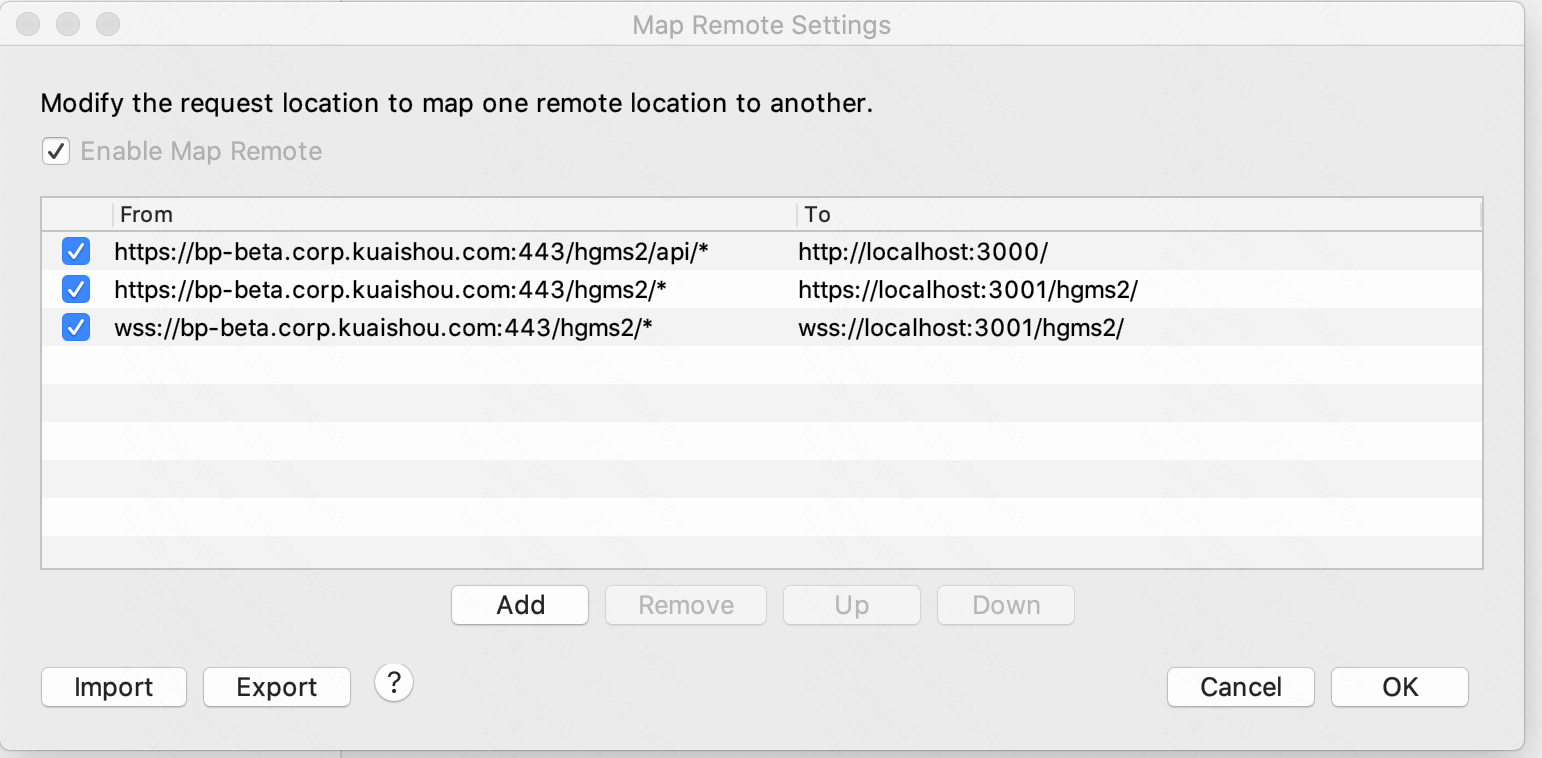
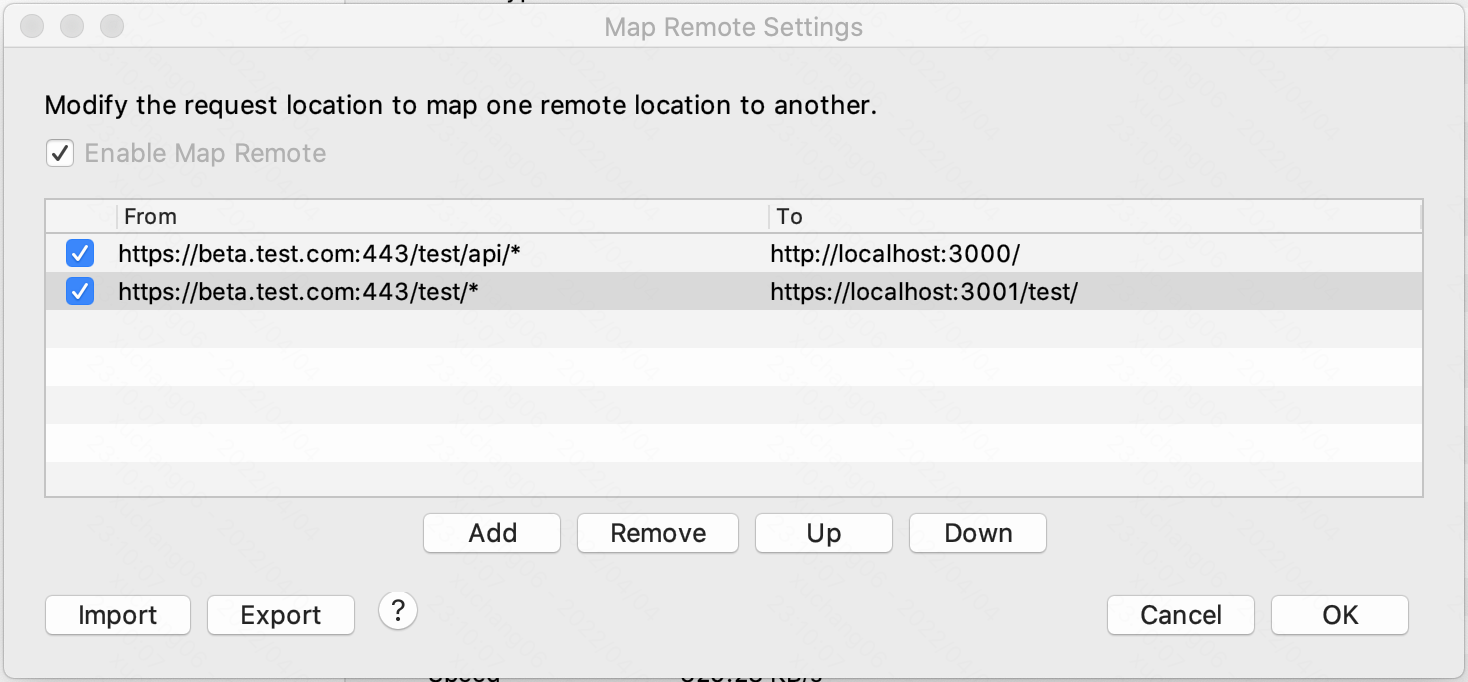
charles文章修正

diff --git a/content/posts/2022-3-31---使用charles代理线上到本地教程.md b/content/posts/2022-3-31---使用charles代理线上到本地教程.md
@@ -22,7 +22,7 @@ socialImage: "/media/42-line-bible.jpg"
 ![charles-record-setting.png](/media/charles-record-setting.png)
 
 ### 设置需要代理的源与目标源
-设置map remote settings，下面的xml代码：把beta.test.com/hgms2/api/dsm 请求发出的接口转发到本地后端服务localhost:3000/dsm；从beta.test.com/hgms2/list 页面转发到本地前端服务localhost:3001。这里需要注意顺序问题，接口转发的优先级高于页面转发的优先级，否则接口请求代理走页面代理。
+设置map remote settings，下面的xml代码：把beta.test.com/test/api/dsm 请求发出的接口转发到本地后端服务localhost:3000/dsm；从beta.test.com/test/list 页面转发到本地前端服务localhost:3001。这里需要注意顺序问题，接口转发的优先级高于页面转发的优先级，否则接口请求代理走页面代理。
 ```
 <?xml version='1.0' encoding='UTF-8' ?>
 <?charles serialisation-version='2.0' ?>
@@ -34,7 +34,7 @@ socialImage: "/media/42-line-bible.jpg"
             <protocol>https</protocol>
             <host>beta.test.com</host>
             <port>443</port>
-            <path>/hgms2/api/*</path>
+            <path>/test/api/*</path>
         </sourceLocation>
         <destLocation>
             <protocol>https</protocol>
@@ -51,7 +51,7 @@ socialImage: "/media/42-line-bible.jpg"
             <protocol>https</protocol>
             <host>beta.test.com</host>
             <port>443</port>
-            <path>/hgms2/*</path>
+            <path>/test/*</path>
         </sourceLocation>
         <destLocation>
             <protocol>https</protocol>
@@ -72,4 +72,4 @@ socialImage: "/media/42-line-bible.jpg"
 SSL Proxying -> install charles root certificate
 
 
-总结：通过以上的配置，当访问beta.test.com/hgms2网站时，可代理到本地localhost:3001，通过这个网站请求的接口可转发到localhost:3000。
+总结：通过以上的配置，当访问beta.test.com/test网站时，资源可代理到本地localhost:3001，通过这个网站请求的接口可通过代理转发到localhost:3000。
